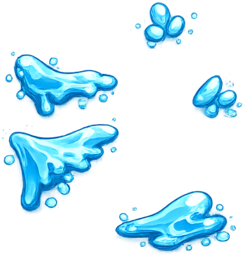
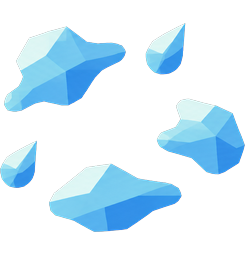
art: redraw Shock/Shock2/Wet/Wet2 as twin-panel faceted status effects (#693)
감전(Shock/Shock2)과 젖음(Wet/Wet2) 상태 표시 두 프레임 쌍을 마스터
faceted 스타일로 다시 그린다. Shock 은 이전 세션에서 개별 생성으로 세 번
연속 실패했다(프레임 2 구도가 밀리고 크기도 10% 달랐다). 이번에는 한
프롬프트로 좌우 두 패널에 프레임 1/2 를 같은 배율·기준으로 나란히
생성한 뒤 반으로 잘라 각각 마무리했다.

Shock/Shock2: alpha content bbox 크기 차이 2.0%/2.4%, 위치 차이
16~17px(887px 패널 대비 약 2%). Wet/Wet2: 크기 차이 1.6%/1.3%, 위치 차이
0~3px. 두 쌍 모두 magenta 키 제거, 네 모서리 alpha 0, 불투명 픽셀에
magenta 잔색 0. 원본과 정확히 같은 픽셀 크기, .meta 는 그대로 뒀다.

diff --git a/.art/PRODUCTION-STATUS.md b/.art/PRODUCTION-STATUS.md
@@ -92,6 +92,8 @@
 | `leaf_field.png` | 클라이언트 이슈 #681 재작업 검수 | 192x79 RGBA. 자연 정령 팔레트, 땅에서 자란 풀잎이 타원 전체를 덮는다. 테두리가 가장 높고 중앙으로 갈수록 낮아져 소환수 자리가 남는다 |
 | `water_field.png` | 클라이언트 이슈 #681 재작업 검수 | 192x69 RGBA. 물 슬라임 팔레트, 물에 잠긴 얕은 웅덩이가 타원 전체를 덮는다. 물결은 테두리에 몰리고 중앙은 잔잔하다 |
 | `crater_ember.png` | 클라이언트 이슈 #681 재작업 검수 | 64x58 RGBA. 분화구에서 튄 불씨 하나, 둥근 물방울 실루엣에 면 3~4개, 가장 밝은 면이 중앙 |
+| `Shock.png`, `Shock2.png` | 클라이언트 PR (이슈 #682) | 247x256 / 244x256 RGBA. 감전 표시, 다면체 번개 조각 다섯 개, 크기를 다르게 흩뿌리고 가운데를 비웠다. 이전 세 차례 시도는 개별 생성이라 프레임 2의 구도·크기가 10% 어긋나 실패했다. 이번은 한 이미지에 좌우 두 패널로 같은 배율·같은 기준선으로 나란히 생성한 뒤 반으로 잘라 각각 마무리했다 — 원본 패널(887x887) 기준 두 프레임의 alpha content bbox 크기 차이 2.0%/2.4%, 위치 차이 16~17px(패널 대비 약 2%). magenta 키 제거, 네 모서리 alpha 0, 불투명 픽셀에 magenta 잔색 0 |
+| `Wet.png`, `Wet2.png` | 클라이언트 PR (이슈 #682) | 245x256 / 225x256 RGBA. 젖음 표시, 다면체 물 튀김 덩어리 세 개와 물방울 두 개. Shock 과 같은 좌우 쌍둥이 패널 생성으로 처음부터 시도해 한 번에 통과했다 — 원본 패널(887x887) 기준 두 프레임의 alpha content bbox 크기 차이 1.6%/1.3%, 위치 차이 0~3px. magenta 키 제거, 네 모서리 alpha 0, 불투명 픽셀에 magenta 잔색 0 |
 
 ## 다음 교체 후보
 
